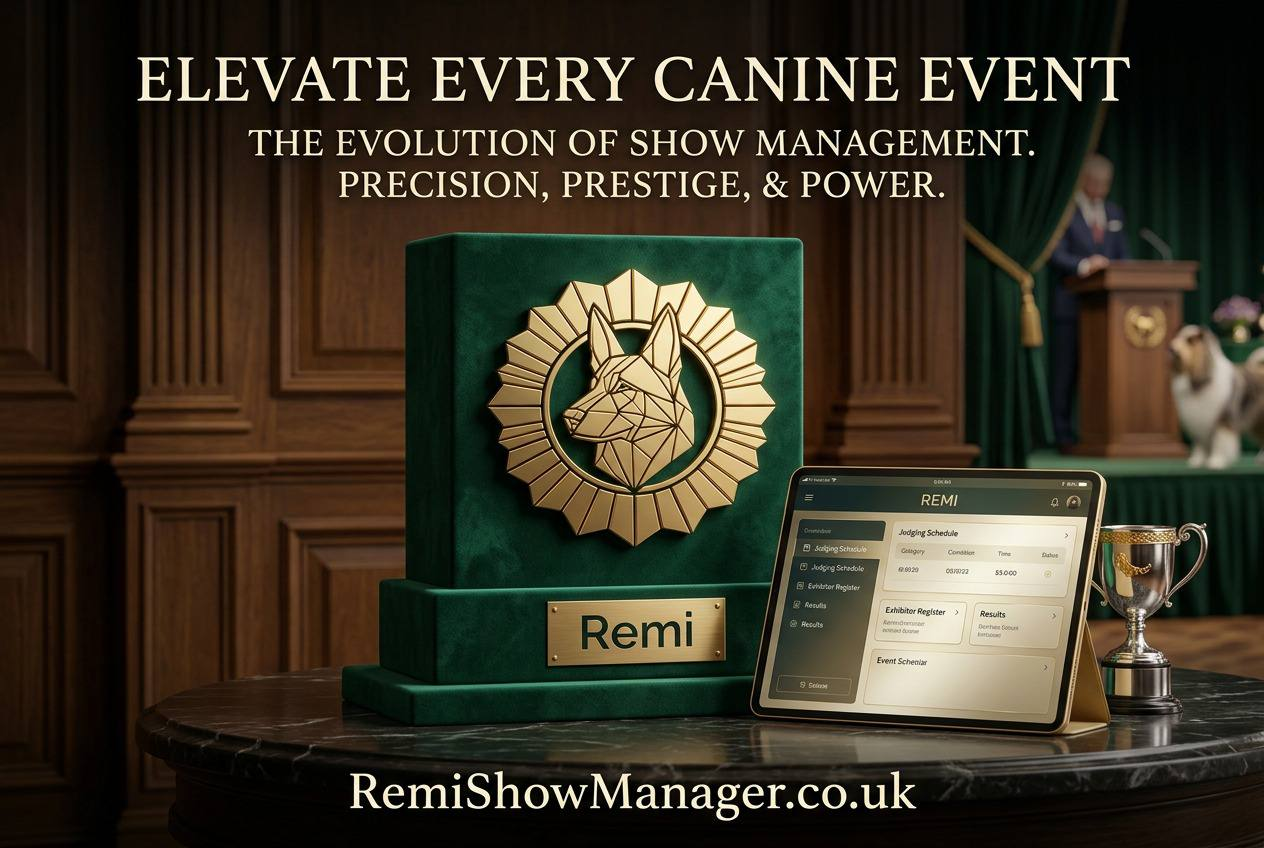
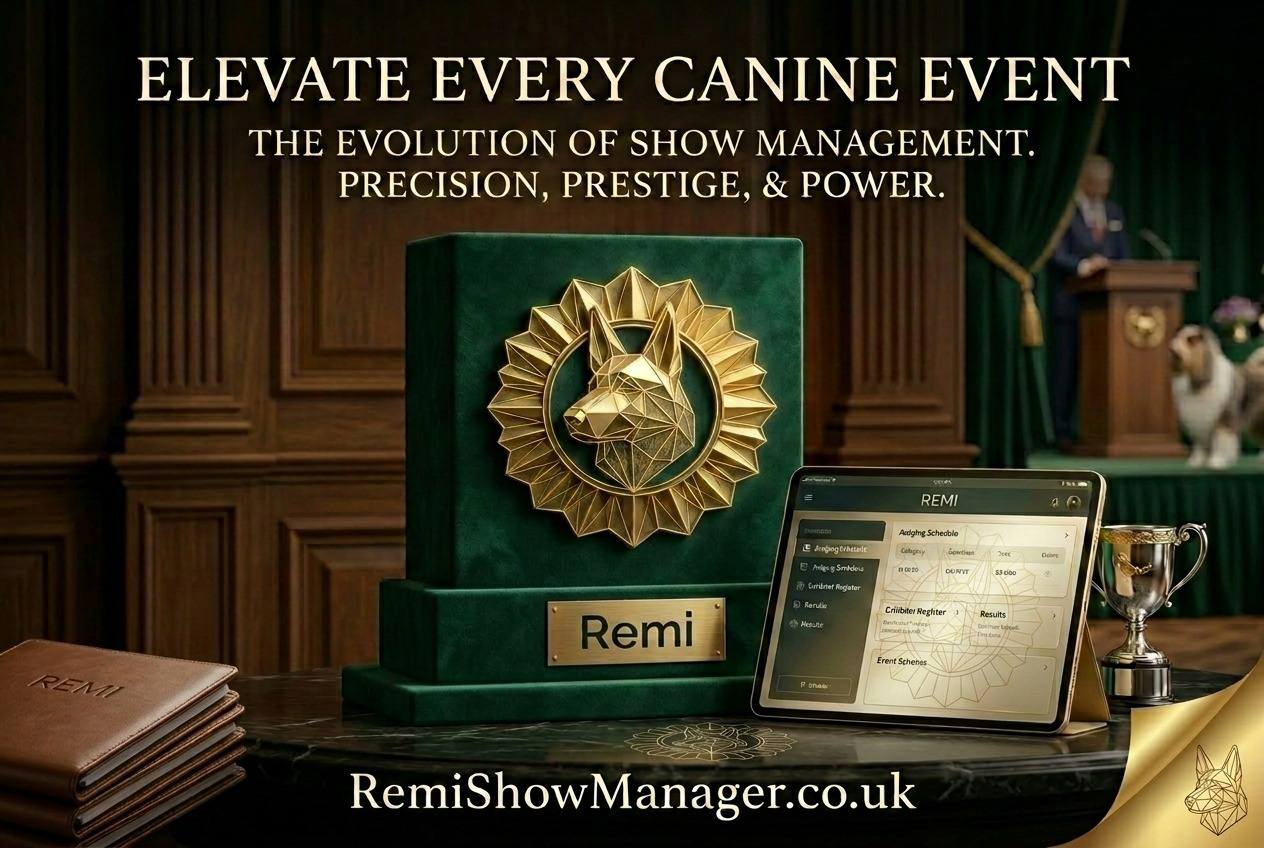
fix(catalogue): prevent section-band orphans + refresh back cover image
Amanda flagged the List of Judges banner landing at the bottom of a
page with the judge cards flowing to the next page — a common
orphan-header regression for sections with content heavier than the
band itself.

Add minPresenceAhead guards to the FrontMatterContent section wrappers:
- List of Judges: 140pt (band + first judge photo card with short bio)
- Best Awards: 120pt (band + 2-3 award rows)
- Show Information: 100pt (band + first subsection)

When there's less than the guard amount left on the current page, the
wrapper defers to the next page rather than printing a lonely band.
Class Definitions already had this guard.

Also swaps the back-cover marketing asset to the updated artwork
Amanda supplied (same landscape aspect, same letterboxed treatment).

diff --git a/src/components/catalogue/catalogue-front-matter.tsx b/src/components/catalogue/catalogue-front-matter.tsx
@@ -320,13 +320,13 @@ export function FrontMatterContent({ show }: FrontMatterProps) {
       <ShowParticularsContent show={show} />
 
       {showHasShowInformation(show) && (
-        <View style={{ marginTop: SECTION_GAP }}>
+        <View style={{ marginTop: SECTION_GAP }} minPresenceAhead={100}>
           <ShowInformationContent show={show} />
         </View>
       )}
 
       {hasJudges && (
-        <View style={{ marginTop: SECTION_GAP }}>
+        <View style={{ marginTop: SECTION_GAP }} minPresenceAhead={140}>
           <JudgesListContent show={show} />
         </View>
       )}
@@ -341,7 +341,7 @@ export function FrontMatterContent({ show }: FrontMatterProps) {
       )}
 
       {hasBestAwards(show) && (
-        <View style={{ marginTop: SECTION_GAP }}>
+        <View style={{ marginTop: SECTION_GAP }} minPresenceAhead={120}>
           <BestAwardsContent show={show} />
         </View>
       )}
